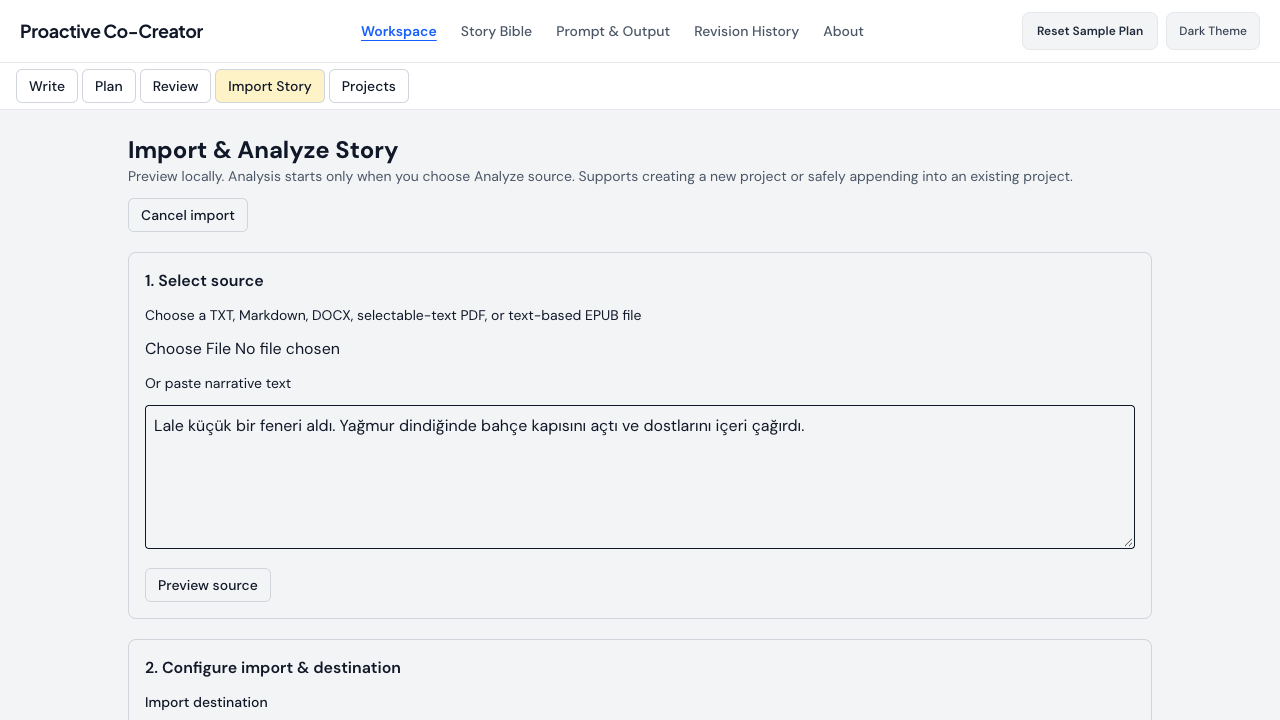
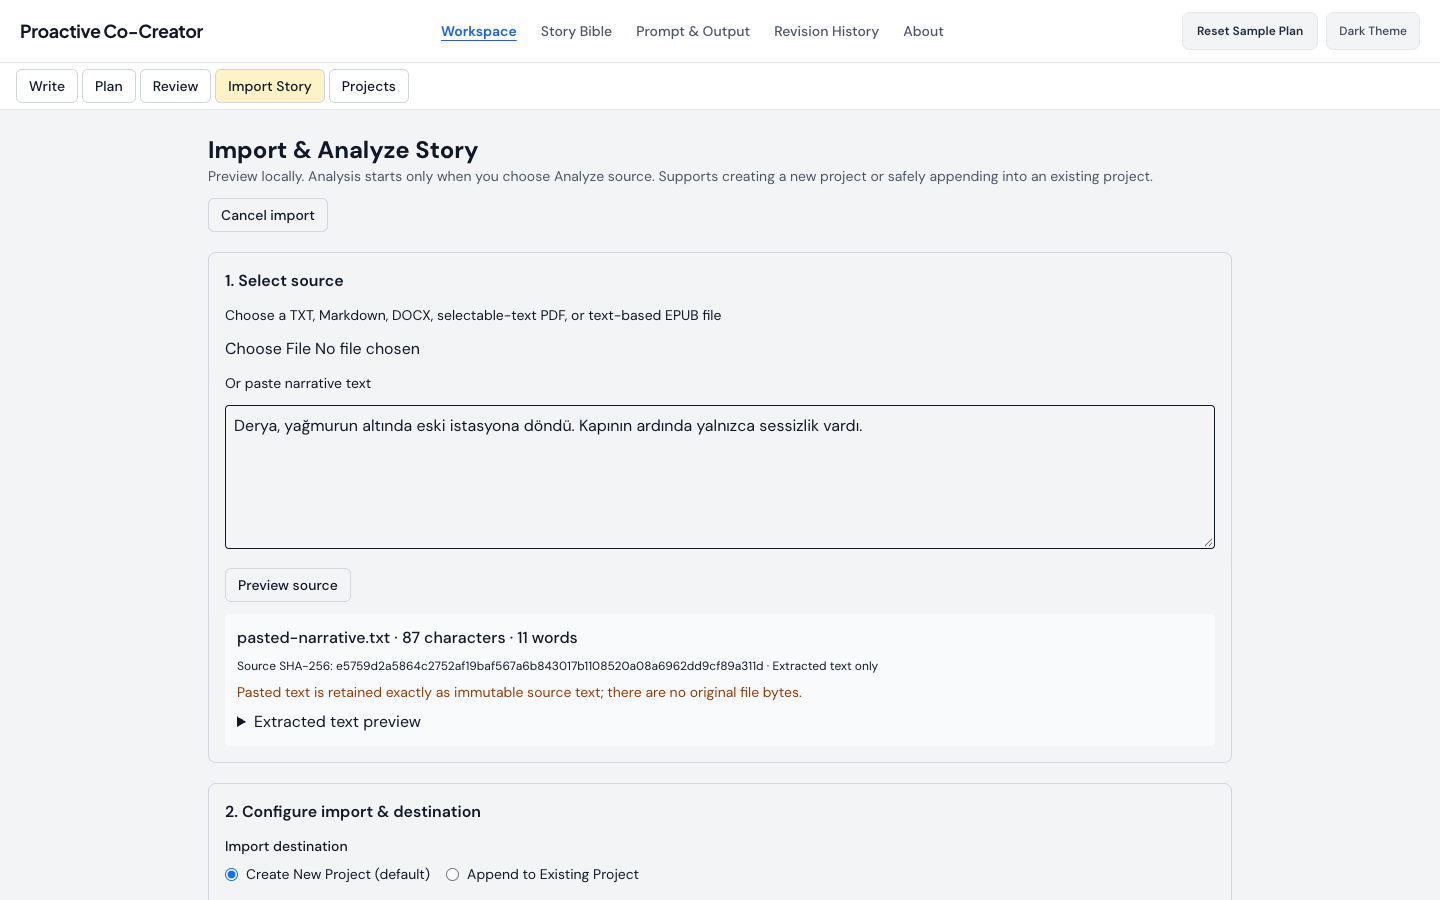
docs: update targeted stabilization evidence

diff --git a/docs/verification/post-studio-stabilization/REPORT.md b/docs/verification/post-studio-stabilization/REPORT.md
@@ -3,7 +3,7 @@
 ## Kaynak ve ortam
 
 - **Kaynak başlangıç noktası:** `7b1ed9c8ecfed8688dba11eac17b585b379bb5c2` (`origin/main`, 25.11.2026 tarihinde alındı).
-- **Test edilen uygulama kaynağı:** `2ee5f90cebf7a54638054862e72d26aa882e6770` (`fix: stabilize post-studio persistence and budgets`).
+- **Test edilen uygulama kaynağı:** `31a0d380c4620d9bda64a2694fe3e49e88c28caf` (`fix: close post-studio stabilization defects`). Kanıt/rapor commit'i bundan sonra gelir.
 - **Ortam:** Yerel macOS, çalışma alanında kurulu Node/npm; `npm ci`; `GEMINI_API_KEY` tanımsız; yerel sunucu `http://127.0.0.1:4173` adresinde (sunucu içeride `0.0.0.0` üzerinde dinliyor).
 - **Tarayıcı:** İzole Playwright Chromium (`playwright-cli`) ve uygulama kabuğunu doğrudan incelemek için Codex uygulama içi Chromium görünümü.
 - **Ekran boyutları:** 1440×900, 768×1024, 390×844. Mevcut E2E paketi ayrıca 390×844 boyutunda yatay taşma olmadığını doğruladı.
@@ -17,8 +17,15 @@
 - **PASS** — `npm test` (26 pakette 260 test).
 - **PASS** — `npm run build`.
 - **PASS** — `E2E_BASE_URL=http://127.0.0.1:4173 bash scripts/e2e-browser-smoke.sh` (E2E-A–E2E-I).
+- **PASS** — Hedefli tekrar paketi: `npx tsx --test tests/narrativeAiBudgetEnforcement.test.ts tests/functionalCompletion.test.ts tests/storageLifecycle.test.ts` (44/44); `npm run typecheck`, `npm run lint` ve `npm run build` başarılı. Build yalnızca mevcut Zod yorum ve büyük paket uyarılarını verdi.
 - **PASS** — Yerel deterministik tanılamalar çalıştı ve örnek içerikte yerel bulgu olmadığını bildirdi; sağlayıcı gerektiren analiz anahtar olmadığı için kapalı kaldı.
-- **FAIL** — Zararsız Türkçe metin girilip “Kaynağı önizle” seçildiğinde, yapıştırılan metne ait ayrıştırılmış kaynak incelemesi görünür biçimde oluşmadı. “Kaynağı analiz et” düğmesi, sağlayıcı anahtarı olmadığı için beklendiği üzere devre dışı kaldı. Hedefli takip gerekiyor; içe aktarma projesi oluşturulmadı.
+- **PASS** — Hedefli Chromium turu (1440×900): sentetik Türkçe metin önizlemesi, kaynak özeti ve SHA-256 görüntülendi. `/api/health` `configured:false` döndürdü; yalnızca yetenekler GET çağrıları görüldü, AI üretim POST'u yapılmadı. Yenileme sonrası konsolda 0 hata/uyarı vardı; `/favicon.svg` HTTP 200 verdi.
+- **PASS** — Hedefli tekrar: yapıştırılmış sentetik Türkçe metin için “Preview source” kaynak adı, karakter/kelime sayısı ve SHA-256 ile önizlemeyi tamamladı. Önizleme, analiz iptal denetleyicisine yanlışlıkla bağlandığı için kendisini iptal ediyordu; kaynak okuma ve AI analiz denetleyicileri ayrıldı. “Analyze source” sunucu anahtarı yokken devre dışı ve yerel önizlemenin kullanılabilir olduğu açıkça bildiriliyor. Proje oluşturulmadı ve AI uç noktası çağrılmadı.
+- **PASS** — Hedefli regresyonlar: AI bütçesi, arşiv doğrulaması ve kalıcılaştırma/idempotency için 44 test geçti; ayrıca tür denetimi ve ESLint geçti.
+- **PASS** — `/favicon.ico` 404 düzeltildi; `index.html` SVG favicon bildiriyor.
+- **PASS** — AI üretiminde sunucu çıkış-token sınırı gerçek isteğe aktarılır; provider token sayımı zaman sınırlı ve iptal edilebilir, yeniden denemeler çağrı/token üst sınırına uyar. Anlatı içe aktarımı kaynak özeti başına 12 çağrı, toplam token ve dört dakikalık işlem penceresiyle ayrıca korunur.
+- **PASS** — Aynı idempotency kimliğiyle farklı içerik reddedilir; başarılı yinelenen kayıttan sonra görünür proje listesi otoritatif IndexedDB kaydıyla uzlaştırılır. Kısmi arşiv geri yükleme hatası tamamlanmış kayıt sayısını ve güncel persisted listeyi korur.
+- **PASS** — ZIP arşiv geri yükleme manifest proje sayısı/metadata, manifest dışı üyeler, yollar, boyutlar ve özetler doğrulanır; açılım boyutu sınır içinde tutulur.
 - **NOT TESTED** — Gerçek sağlayıcı üretimi, AI çıkarımı, senkronizasyon, yedekten geri yükleme/değiştirme ve harici klasör yedeği. Sağlayıcı çağrıları yasaktı; görsel tarayıcı turunda geri yükleme mutasyonları çalıştırılmadı.
 
 ## Tarayıcı turları ve gözlemler
@@ -30,7 +37,7 @@
 - **PASS** — İnceleme: yerel tanılamalar çalıştırıldı. AI anlamsal analizi ve yazma/model senkronizasyonu kontrolleri anahtar eksikliğini açıkça belirterek devre dışı kaldı.
 - **PASS** — Projeler ve Dışa Aktarma Merkezi açıldı; dışa aktarma, taşınabilir arşiv ve yedekleme/geri yükleme kontrolleri görüntülendi. Görsel inceleme sırasında indirme ve geri yükleme mutasyonları çalıştırılmadı.
 - **PASS** — E2E-A–E2E-I: kabuk açılışı, proje/örnek senaryoları, tanılamaya gezinme, toplu değişiklik önizleme/uygulama/geri alma/yeniden yükleme, grafik kipleri, klavye odağı, koyu tema ve mobil taşma kontrolleri. Güvenli yetenekler uç noktasına izin verecek şekilde test düzeneği düzeltildikten sonra sayfa ve konsol hatası kaydedilmedi.
-- **FAIL** — Uygulama doğrudan açıldığında `/favicon.ico` için konsolda bir 404 oluştu; bu durum uygulama turlarını engellemedi.
+- **PASS** — Uygulama açılışında SVG favicon kaynağı kullanılıyor; önceki `/favicon.ico` eksikliği giderildi.
 
 ## Ekran görüntüleri
 
@@ -41,7 +48,7 @@ Tüm görüntüler gerçek Chromium ekran görüntüleridir. Yalnızca sentetik/
 | Plan ve dolu grafik | ![Plan grafiği](screenshots/01-desktop-plan-belief-graph.png) |
 | Türkçe metinli Yazma alanı | ![Yazma alanı](screenshots/02-desktop-write-manuscript.png) |
 | Yazma Asistanı kullanılamıyor durumu | ![Yazma Asistanı](screenshots/03-desktop-writing-assistant-unavailable.png) |
-| Kaynak içe aktarma denemesi | ![Hikâyeyi İçe Aktar](screenshots/04-desktop-import-source.png) |
+| Başarılı kaynak önizlemesi (sentetik Türkçe) | ![Hikâyeyi İçe Aktar](screenshots/04-desktop-import-source.png) |
 | Projeler ve Dışa Aktarma Merkezi | ![Projeler](screenshots/05-desktop-projects.png) |
 | İnceleme tanılamaları | ![İnceleme](screenshots/07-desktop-review-local-diagnostics.png) |
 | Karar Kutusu | ![Karar Kutusu](screenshots/08-desktop-decision-inbox.png) |
@@ -60,8 +67,10 @@ Tüm görüntüler gerçek Chromium ekran görüntüleridir. Yalnızca sentetik/
 
 ## Kalan kusurlar ve kullanılabilirlik notları
 
-- **FAIL** — Yapıştırılan metin için içe aktarma önizlemesi, doğrudan tarayıcı denemesinde ilerlemedi. TXT/Markdown/DOCX/PDF/EPUB dosya önizlemesi, çıkarım incelemesi, mevcut projeye ekleme ve bozuk dosya durumları bu turda **NOT TESTED**.
-- **FAIL** — `/favicon.ico` isteği tarayıcı konsolunda 404 veriyor.
+- **NOT TESTED** — TXT/Markdown/DOCX/PDF/EPUB dosya önizlemesi, çıkarım incelemesi, mevcut projeye ekleme ve bozuk dosya durumları. Yapıştırılmış metin önizlemesi bu hedefli takipte doğrulandı.
+- **NOT TESTED** — Kısmi arşiv geri yükleme hata senaryosu tarayıcıda uçtan uca çalıştırılmadı; başarılı kısmi kayıt sayısı artık arayüzde raporlanıyor ve kaynak değişikliği hedefli kod/test kontrollerinden geçti.
+- **Sınır** — AI kullanım sayacı sunucu sürecinde kaynak SHA-256 başına tutulur; dört dakikalık işlem penceresi ve bellek içi saklama, süreç yeniden başlatma veya birden fazla sunucu süreci arasında kalıcı/global kota sağlamaz. Gerçek Gemini çağrısı yapılmadı.
+- **CI** — PR'daki önceki kaynak commit'i `c58e56a18e611164f9c81c1f861afb3a5b9142a6` için Node 22 ve Chromium E2E kontrolleri geçmişti. Bu güncellemenin CI sonucu henüz bekleniyor.
 - **BLOCKED** — AI yazımı, anlamsal tanılama, çıkarım, AI fırsatları ve senkronizasyon sağlayıcı gerektiriyor; kimlik bilgisi olmadan kasıtlı olarak çalıştırılmadı.
 - **NOT TESTED** — Kopya olarak geri yükleme/değiştirme, yedek sabitleme/saklama ve arşiv bütünlüğü tarayıcı arayüzünde denenmedi. Arşiv boyutu/yol/özet davranışı, aşırı büyük girdi regresyonu dahil otomatik testlerle kapsanıyor.
 - **Kullanılabilirlik gözlemi:** Plan alanı geniş bir karar listesini, istem kontrollerini, grafiği/çıktıyı ve yedi sekmeli bağlamsal paneli bir arada sunuyor. 1440×900 boyutunda hepsine erişilebilse de panel sekmeleri ve yoğun içerik sınırlı genişlik için yarışıyor. Plan gezinmesi genel ve mobil odaklı kontrollerde yineleniyor. Ekran görüntüleri gelecekteki yeniden tasarım için başlangıç kanıtıdır; bilgi mimarisi bu görevde yeniden düzenlenmedi.
@@ -69,7 +78,5 @@ Tüm görüntüler gerçek Chromium ekran görüntüleridir. Yalnızca sentetik/
 
 ## Önerilen takip işleri
 
-1. Yapıştırılmış metin önizlemesindeki durum geçişini yeniden üretip düzeltin; metin ve desteklenen her dosya ayrıştırıcısı için içe aktarma turlarını tekrarlayın.
-2. Ürün favicon sunacaksa dosyayı ekleyin veya doğru konuma referans verin.
-3. Gelecekteki yeniden tasarımda Plan gezinmesini sadeleştirin ve yedi bağlamsal görünümü doğrudan erişimi koruyarak yeniden gruplayın.
-4. Anlatı üretim sınırı ve sayaç zaman aşımı için anahtarsız enjekte edilmiş istemci testlerini, ayrıca kalıcı ve bellek içi uzlaştırmayı doğrulayan bir IndexedDB yinelenen-işlem testini ekleyin.
+1. Ayrı tasarım aşamasında Plan gezinmesini sadeleştirin ve yedi bağlamsal görünümü doğrudan erişimi koruyarak yeniden gruplayın.
+2. Anahtarsız tarayıcı doğrulamasında kapsam dışında kalan TXT/Markdown/DOCX/PDF/EPUB, içe aktarma incelemesi ve arşiv geri yükleme UI turlarını tamamlayın.
